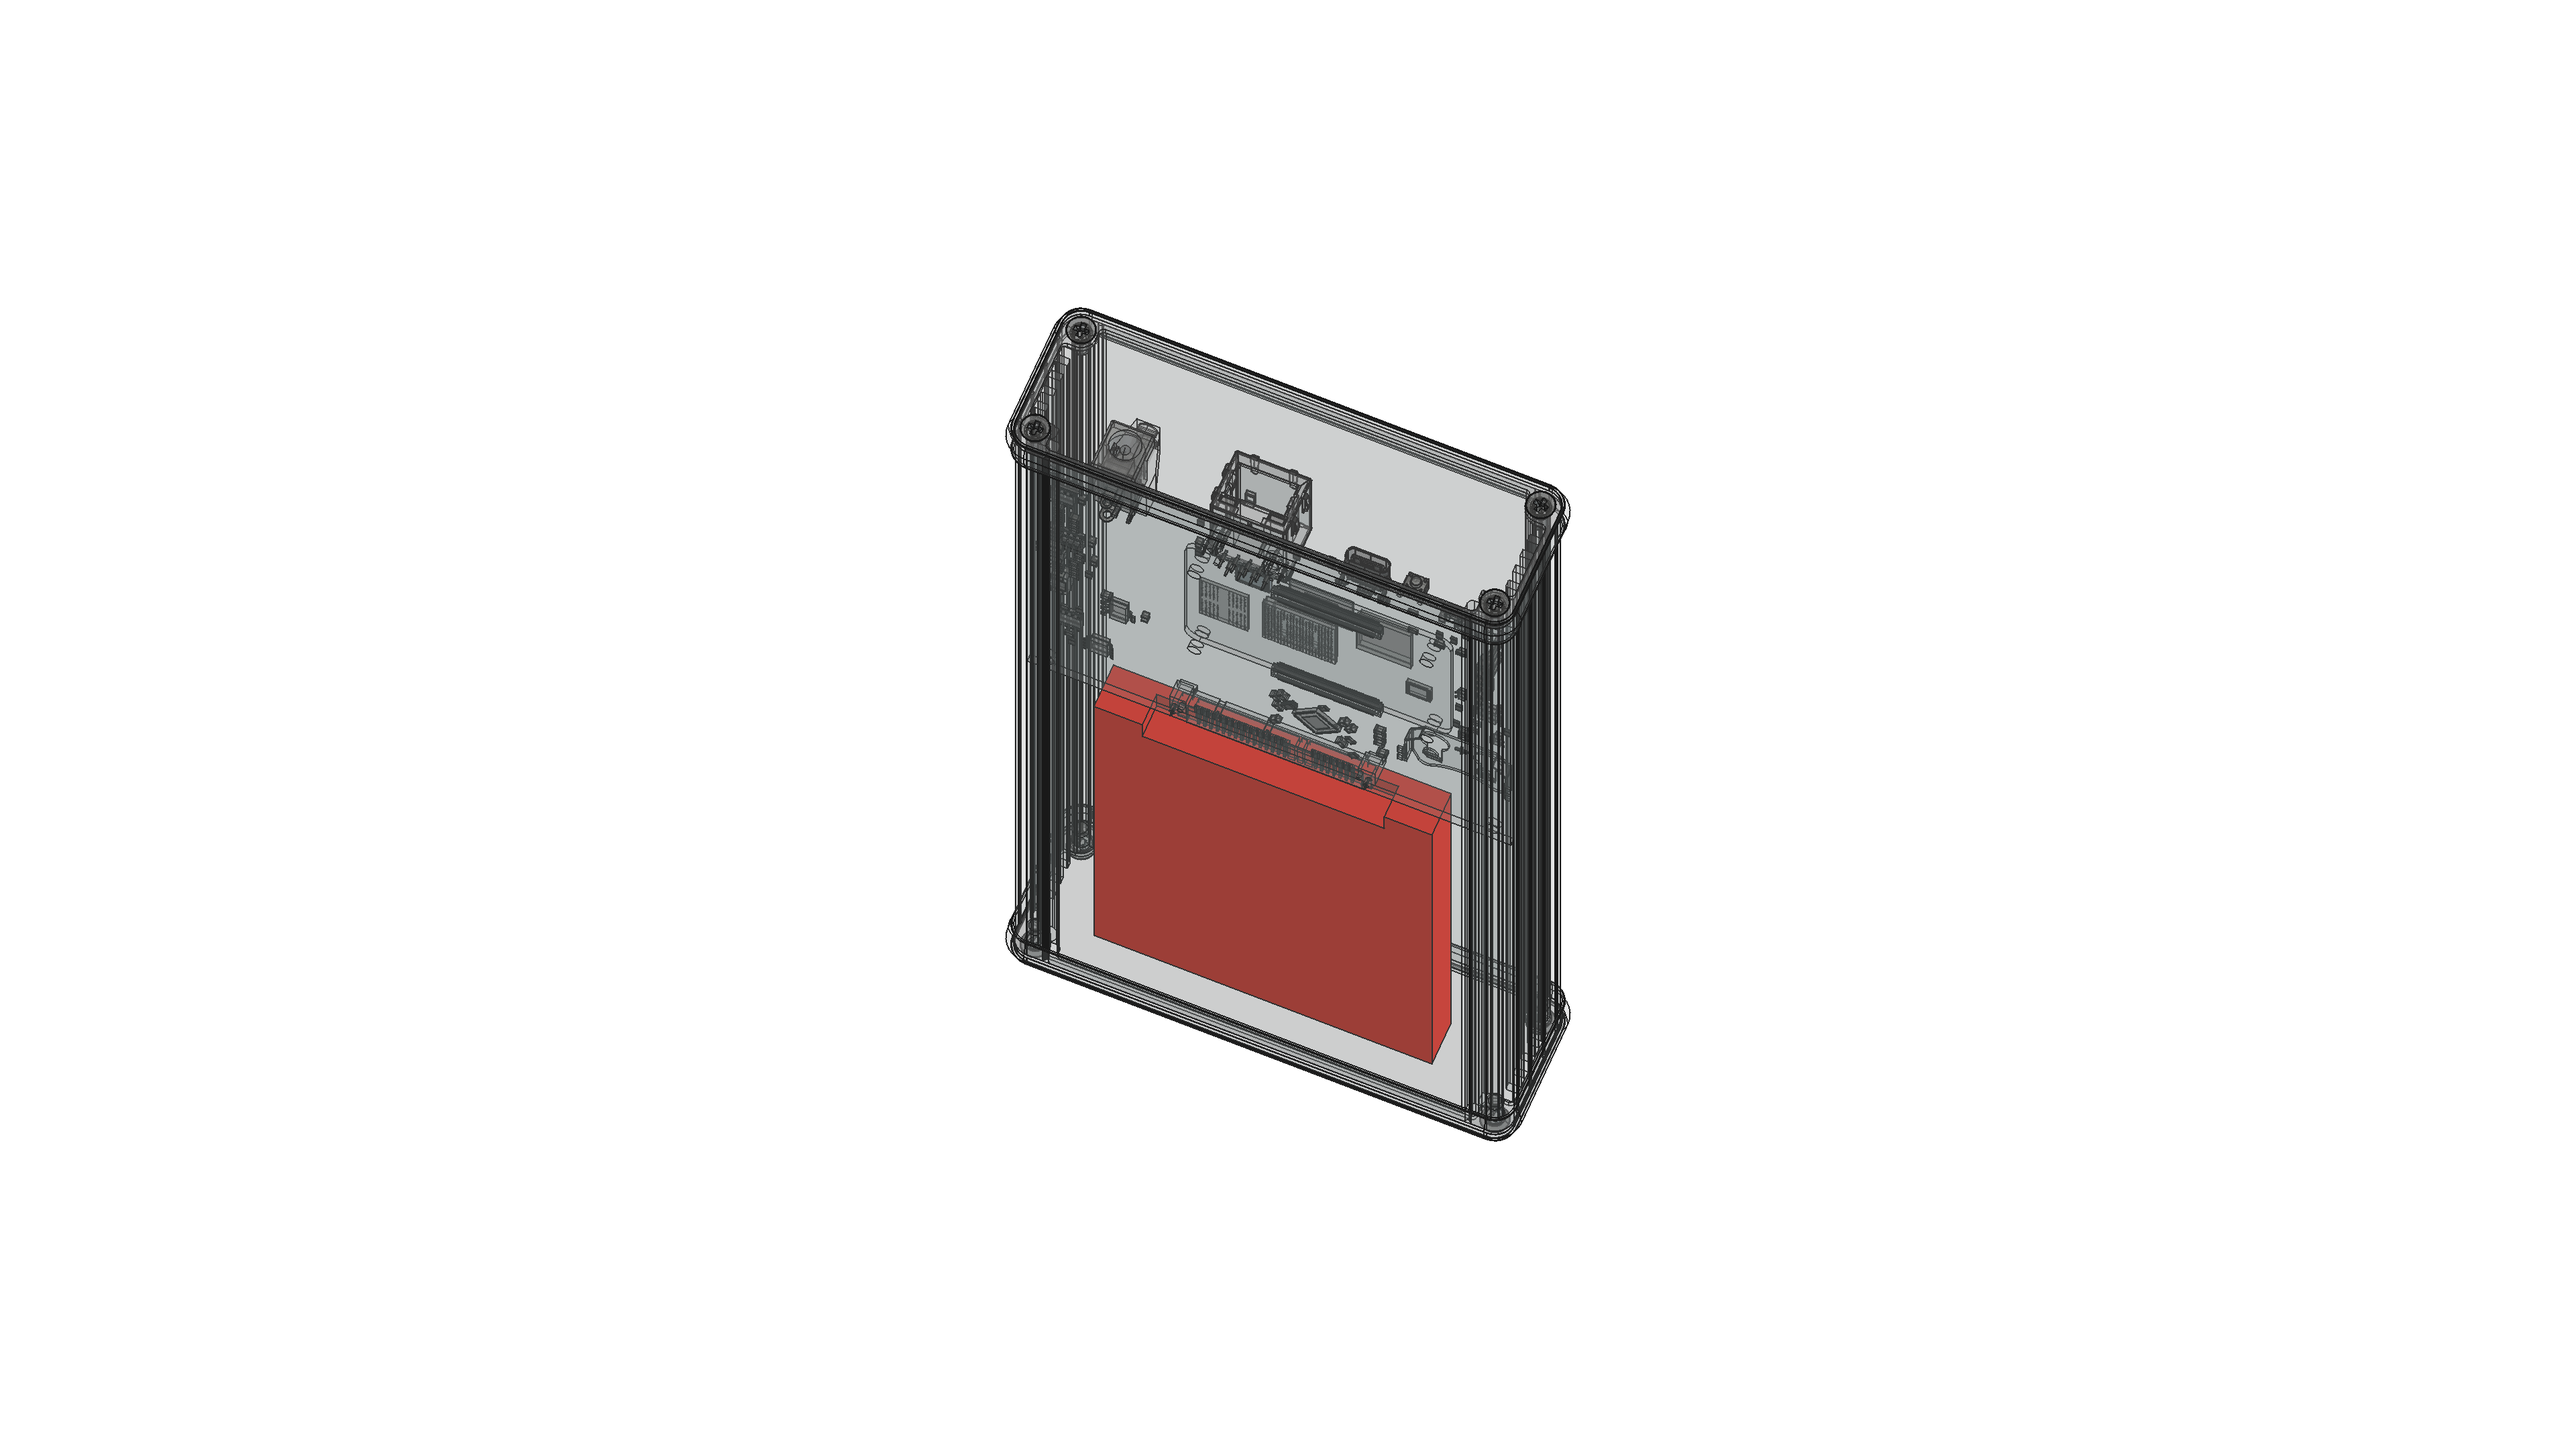
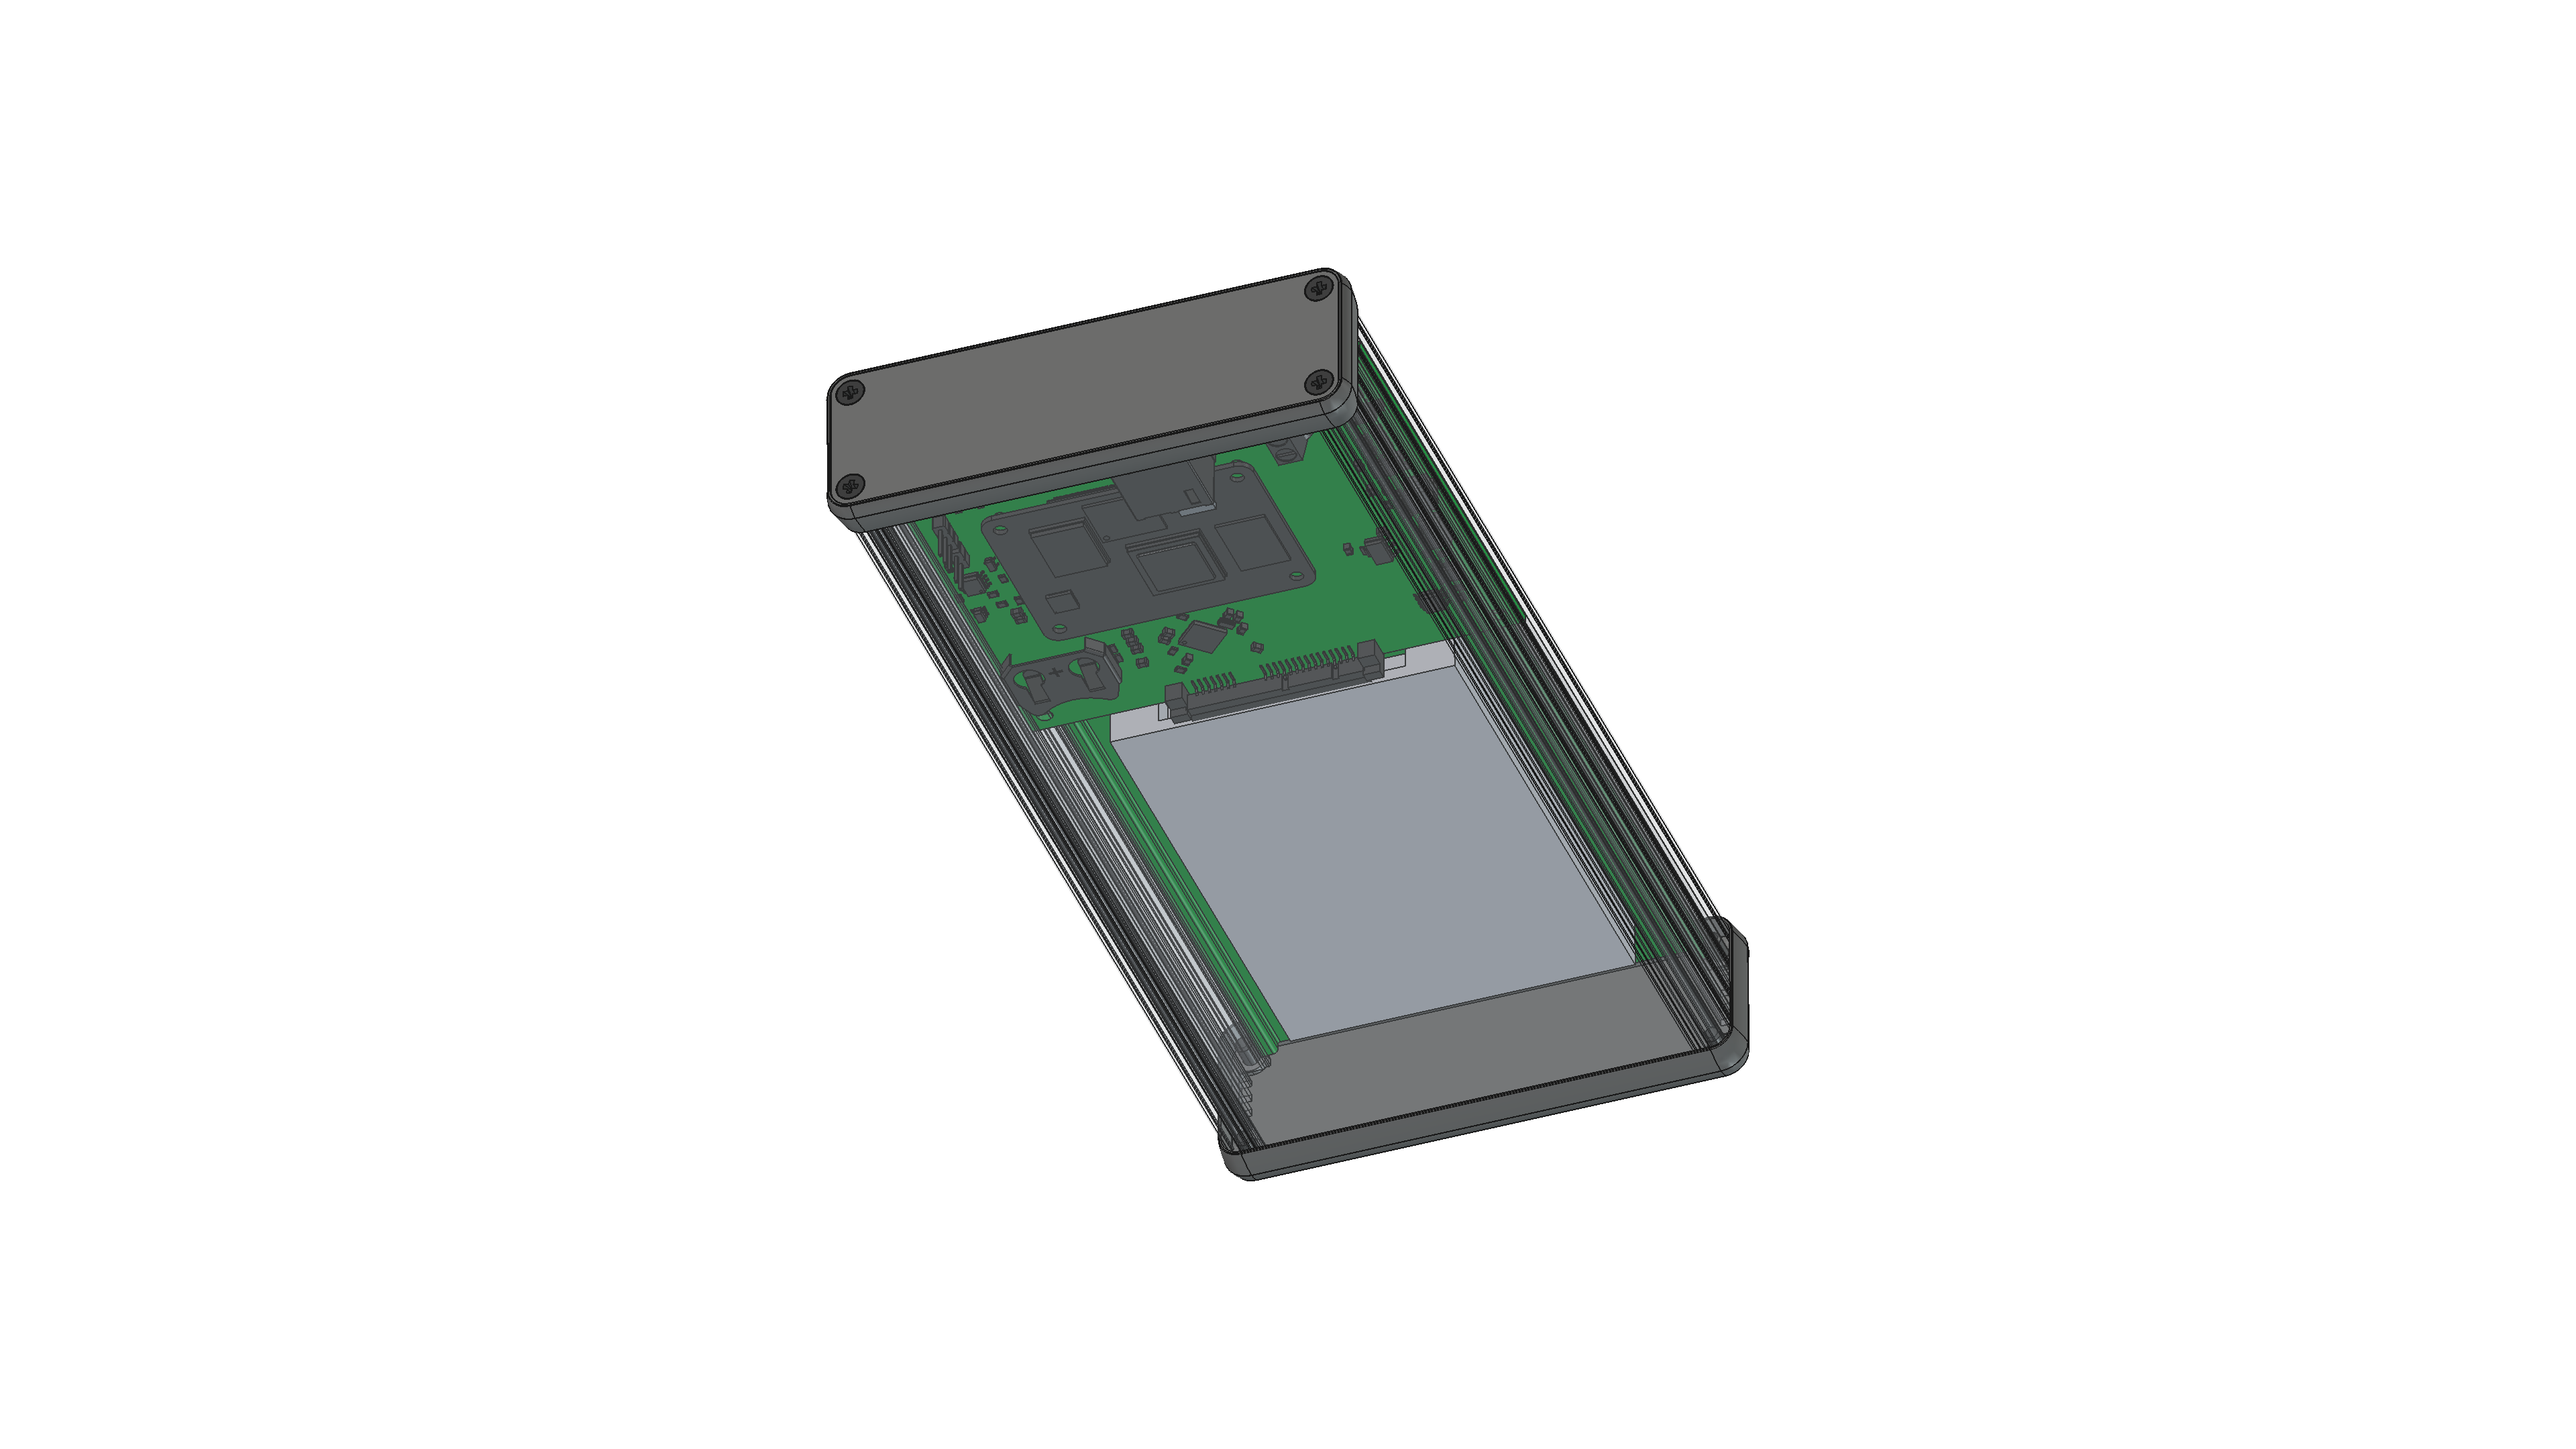
Improve assembly screenshot: better viewing angle showing PCB, HDD and case interior

Changed region(s): [[0.3125, 0.1861, 0.6875, 0.8375]]

diff --git a/mechanical/screenshot.py b/mechanical/screenshot.py
@@ -1,6 +1,9 @@
 #!/usr/bin/env python3
-"""Render assembly screenshot with software OpenGL.
-Run with: LIBGL_ALWAYS_SOFTWARE=1 ASSEMBLY_FILE=... xvfb-run -a -s "-screen 0 3840x2160x24" freecad screenshot.py
+"""Render assembly screenshot with original 3D model colors.
+
+Run with:
+  LIBGL_ALWAYS_SOFTWARE=1 ASSEMBLY_FILE=... \
+    xvfb-run -a -s "-screen 0 3840x2160x24" freecad screenshot.py
 """
 
 import os
@@ -8,6 +11,7 @@ import sys
 import FreeCAD
 import FreeCADGui
 import Import
+import Part
 
 assembly_file = os.environ.get("ASSEMBLY_FILE", "mechanical/assembly-wide.step")
 output_png = assembly_file.replace(".step", ".png")
@@ -21,43 +25,53 @@ for obj in doc.Objects:
         continue
     bb = obj.Shape.BoundBox
     try:
-        # PCB: 92mm X, 100mm Z, very thin Y (<5mm)
-        if bb.YLength < 5 and bb.XLength > 80 and bb.XLength < 100 and bb.ZLength > 90 and bb.ZLength < 110:
-            obj.ViewObject.ShapeColor = (0.0, 0.8, 0.0)
+        # PCB board (thin, ~100x92): green
+        if bb.YLength < 5 and bb.XLength > 80 and bb.ZLength > 80:
+            obj.ViewObject.ShapeColor = (0.0, 0.55, 0.15)
             continue
-        # HDD: distinguish from case — HDD Y height is 9-27mm and Z < 150mm
+        # HDD: red-ish, Y height 9-27mm, not as wide as case
         if bb.ZLength > 90 and bb.ZLength < 150 and bb.YLength > 5 and bb.YLength < 40 and bb.XLength < 110:
-            obj.ViewObject.ShapeColor = (0.9, 0.15, 0.1)
+            obj.ViewObject.ShapeColor = (0.75, 0.75, 0.78)
             continue
-        # Screws/small parts
-        if bb.XLength < 15 and bb.YLength < 15 and bb.ZLength < 15:
-            obj.ViewObject.ShapeColor = (0.4, 0.4, 0.4)
-            obj.ViewObject.Transparency = 60
+        # Components on PCB: dark gray (small-ish parts)
+        vol = bb.XLength * bb.YLength * bb.ZLength
+        if vol < 50000 and bb.XLength < 60 and bb.ZLength < 60:
+            obj.ViewObject.ShapeColor = (0.2, 0.2, 0.2)
             continue
-        # Hide lid (thin piece near Y=0)
-        if bb.YMax > -5 and bb.YLength < 6 and bb.XLength > 80 and bb.ZLength > 80:
+        # Case end panels: hide the one at +Z (connector side) to see inside
+        if bb.YLength > 40 and bb.ZLength < 20 and bb.XLength > 100:
+            if bb.ZMin > 0:
+                obj.ViewObject.Visibility = False  # hide connector-side end panel
+            else:
+                obj.ViewObject.ShapeColor = (0.7, 0.7, 0.72)
+                obj.ViewObject.Transparency = 70
+            continue
+        # Case lid (thin, near Y=0): hide
+        if bb.YLength < 6 and bb.XLength > 100 and bb.ZLength > 100 and bb.YMax > -5:
             obj.ViewObject.Visibility = False
             continue
-        # Everything else is case — gray, very transparent
-        obj.ViewObject.ShapeColor = (0.6, 0.6, 0.6)
-        obj.ViewObject.Transparency = 88
-    except:
+        # Case body: light gray, transparent
+        if bb.XLength > 100 and bb.ZLength > 100:
+            obj.ViewObject.ShapeColor = (0.7, 0.7, 0.72)
+            obj.ViewObject.Transparency = 85
+            continue
+        # Fallback: medium gray
+        obj.ViewObject.ShapeColor = (0.4, 0.4, 0.4)
+    except Exception:
         pass
 
 view = FreeCADGui.ActiveDocument.ActiveView
-
-# Enable anti-aliasing
 from pivy import coin
 cam = view.getCameraNode()
 
-# Angled view showing inside and front (connector) edge
-rot = coin.SbRotation(coin.SbVec3f(1, 0, 0), 0.45)    # tilt down
-rot *= coin.SbRotation(coin.SbVec3f(0, 0, 1), 0.4)     # rotate to show connector edge (+Z)
+# Camera: from HDD end looking toward connectors, tilted to see PCB top
+rot = coin.SbRotation(coin.SbVec3f(1, 0, 0), 0.65)     # tilt down ~37°
+rot *= coin.SbRotation(coin.SbVec3f(0, 1, 0), 0.35)     # slight side angle
+rot *= coin.SbRotation(coin.SbVec3f(0, 0, 1), 3.14)     # face opposite direction
 cam.orientation.setValue(rot)
 view.fitAll()
 
-# Render at high resolution
 view.saveImage(output_png, 3840, 2160, "White")
-
-print(f"Screenshot saved to {output_png}")
+sys.stdout.write(f"saved {output_png}\n")
+sys.stdout.flush()
 sys.exit(0)
